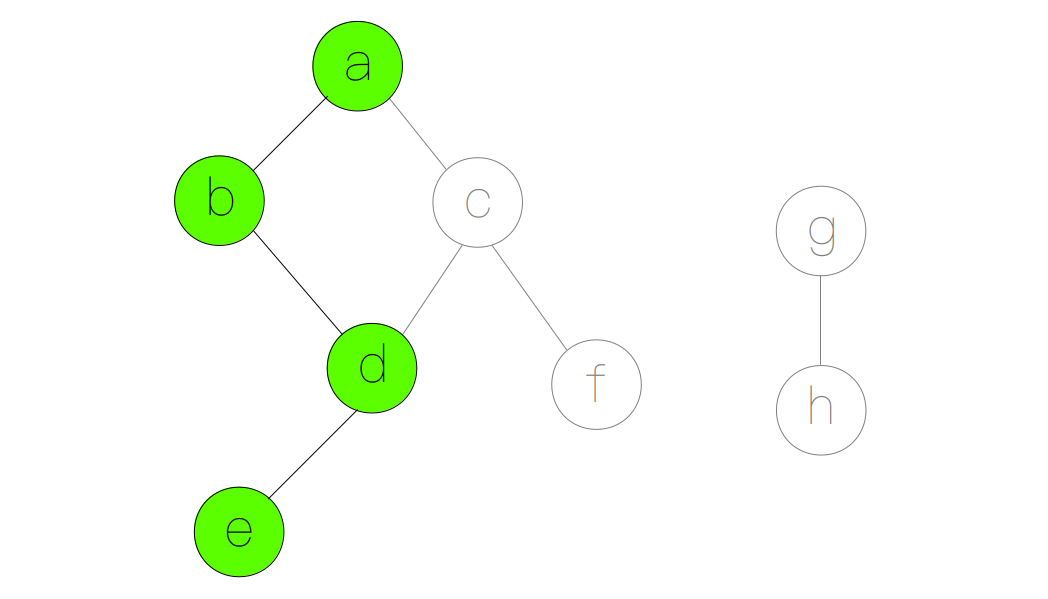
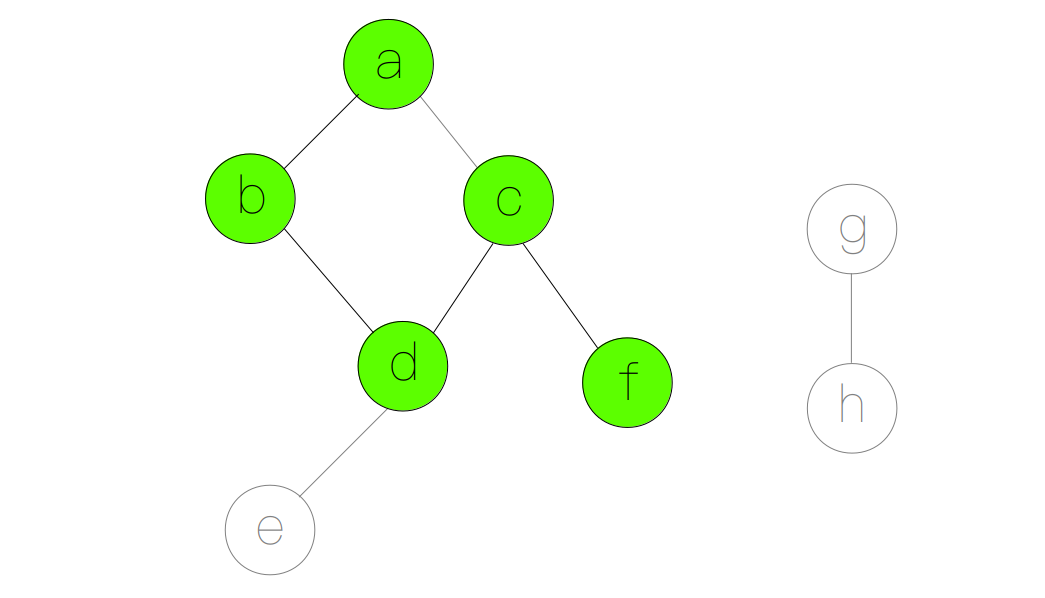
Site updated: 2020-01-14 12:57:12

diff --git a/study/algorithm/brute-force/graph-traversal/index.html b/study/algorithm/brute-force/graph-traversal/index.html
@@ -141,7 +141,7 @@
                         <div class="highlight"><pre><span></span><span class="k">class</span> <span class="nc">Vertex</span><span class="p">(</span><span class="nb">object</span><span class="p">):</span>
     <span class="k">def</span> <span class="fm">__init__</span><span class="p">(</span><span class="bp">self</span><span class="p">,</span> <span class="n">value</span><span class="p">,</span> <span class="n">visited</span><span class="p">):</span>
         <span class="bp">self</span><span class="o">.</span><span class="n">value</span> <span class="o">=</span> <span class="n">value</span>
-        <span class="bp">self</span><span class="o">.</span><span class="n">visited</span> <span class="o">=</span> <span class="bp">True</span>
+        <span class="bp">self</span><span class="o">.</span><span class="n">visited</span> <span class="o">=</span> <span class="bp">False</span>
         <span class="bp">self</span><span class="o">.</span><span class="n">neighbours</span> <span class="o">=</span> <span class="p">[]</span>  <span class="c1"># 记录所有与之相邻的节点</span>
 </pre></div>
                         <br>
@@ -149,14 +149,16 @@
                         <div class="highlight"><pre><span></span><span class="k">def</span> <span class="nf">dfs</span><span class="p">(</span><span class="n">v</span><span class="p">):</span>
     <span class="n">v</span><span class="o">.</span><span class="n">visited</span> <span class="o">=</span> <span class="bp">True</span>
     <span class="k">for</span> <span class="n">w</span> <span class="ow">in</span> <span class="n">v</span><span class="o">.</span><span class="n">neighbours</span><span class="p">:</span>
-        <span class="k">if</span> <span class="n">w</span><span class="o">.</span><span class="n">visited</span> <span class="o">==</span> <span class="bp">False</span><span class="p">:</span>
+        <span class="k">if</span> <span class="ow">not</span> <span class="n">w</span><span class="o">.</span><span class="n">visited</span><span class="p">:</span>
+            <span class="n">w</span><span class="o">.</span><span class="n">visited</span> <span class="o">=</span> <span class="bp">True</span>
             <span class="n">dfs</span><span class="p">(</span><span class="n">w</span><span class="p">)</span>
 </pre></div>
                         <br>
                         <p>我们看到，由于节点 g 和节点 h 没有与左边的图连通，所以我们需要再构建一个函数用来遍历所有节点是否被访问过，如果没有，我们就从该节点开始再进行遍历。</p>
-                        <div class="highlight"><pre><span></span><span class="k">def</span> <span class="nf">DFS</span><span class="p">(</span><span class="n">V</span><span class="p">):</span>
+                        <div class="highlight"><pre><span></span><span class="k">def</span> <span class="nf">DFS</span><span class="p">(</span><span class="n">G</span><span class="p">):</span>
+    <span class="n">V</span> <span class="o">=</span> <span class="n">G</span><span class="o">.</span><span class="n">keys</span><span class="p">()</span>
     <span class="k">for</span> <span class="n">v</span> <span class="ow">in</span> <span class="n">V</span><span class="p">:</span>
-        <span class="k">if</span> <span class="n">v</span><span class="o">.</span><span class="n">visited</span> <span class="o">==</span> <span class="bp">False</span><span class="p">:</span>
+        <span class="k">if</span> <span class="ow">not</span> <span class="n">v</span><span class="o">.</span><span class="n">visited</span><span class="p">:</span>
             <span class="n">dfs</span><span class="p">(</span><span class="n">v</span><span class="p">)</span>
 </pre></div>
                         <br>
@@ -169,17 +171,19 @@
     <span class="n">v</span><span class="o">.</span><span class="n">visted</span> <span class="o">=</span> <span class="bp">True</span>
     <span class="n">queue</span> <span class="o">=</span> <span class="p">[]</span>  <span class="c1"># 初始化一个空队列</span>
     <span class="n">queue</span><span class="o">.</span><span class="n">append</span><span class="p">(</span><span class="n">v</span><span class="p">)</span>  <span class="c1"># v 入队</span>
-    <span class="k">while</span> <span class="n">queue</span> <span class="o">!=</span> <span class="p">[]:</span>
+    <span class="k">while</span> <span class="n">queue</span><span class="p">:</span>
         <span class="k">for</span> <span class="n">w</span> <span class="ow">in</span> <span class="n">v</span><span class="o">.</span><span class="n">neighbours</span><span class="p">:</span>
-            <span class="k">if</span> <span class="n">w</span><span class="o">.</span><span class="n">visited</span> <span class="o">==</span> <span class="bp">False</span><span class="p">:</span>
+            <span class="k">if</span> <span class="ow">not</span> <span class="n">w</span><span class="o">.</span><span class="n">visited</span><span class="p">:</span>
+                <span class="n">w</span><span class="o">.</span><span class="n">visited</span> <span class="o">=</span> <span class="bp">True</span>
                 <span class="n">queue</span><span class="o">.</span><span class="n">append</span><span class="p">(</span><span class="n">w</span><span class="p">)</span>
         <span class="n">queue</span><span class="o">.</span><span class="n">pop</span><span class="p">(</span><span class="mi">0</span><span class="p">)</span>  <span class="c1"># v 出队</span>
 </pre></div>
                         <br>
                         <p>同样，对于那些没有相互连接的图，我们处理的方式是一样的：</p>
-                        <div class="highlight"><pre><span></span><span class="k">def</span> <span class="nf">BFS</span><span class="p">(</span><span class="n">V</span><span class="p">):</span>
+                        <div class="highlight"><pre><span></span><span class="k">def</span> <span class="nf">BFS</span><span class="p">(</span><span class="n">G</span><span class="p">):</span>
+    <span class="n">V</span> <span class="o">=</span> <span class="n">G</span><span class="o">.</span><span class="n">keys</span><span class="p">()</span>
     <span class="k">for</span> <span class="n">v</span> <span class="ow">in</span> <span class="n">V</span><span class="p">:</span>
-        <span class="k">if</span> <span class="n">v</span><span class="o">.</span><span class="n">visited</span> <span class="o">==</span> <span class="bp">False</span><span class="p">:</span>
+        <span class="k">if</span> <span class="ow">not</span> <span class="n">v</span><span class="o">.</span><span class="n">visited</span><span class="p">:</span>
             <span class="n">bfs</span><span class="p">(</span><span class="n">v</span><span class="p">)</span>
 </pre></div>
                         <br>
@@ -202,7 +206,7 @@
                         <p>邻接表由于只记录了每个节点和与之相连节点的信息，即每条边的信息。所以在遍历的过程中，我们需要 |V| + |E| 次，其中 |V| 表示判断节点是否已经被访问过的次数，|E| 表示一个图里边的条数（具有两个方向的边算作两次）。所以用邻接表表示的图，其两种遍历的复杂度均为 Θ(|V|+|E|)。</p>
 
                         <br>
-                        <p>→ <a href="https://github.com/infinityglow/Algorithm-and-Complexity/tree/master/Brute%20Force/String%20Matching" target="_blank" rel="noopener">本节全部代码</a> ←</p>
+                        <p>→ <a href="https://github.com/infinityglow/Algorithm-and-Complexity/tree/master/Brute%20Force/Graph%20Traversal" target="_blank" rel="noopener">本节全部代码</a> ←</p>
 
                         <br>
                         <br>
@@ -210,14 +214,14 @@
 
                         <nav id="gobottom" class="pagination">
 
-                            <a class="prev-post" title="4.1 冒泡排序与选择排序" href="/study/algorithm/brute-force/string-matching/" style="color: #C0C0C0">
+                            <a class="prev-post" title="4.2 字符串匹配（BF）" href="/study/algorithm/brute-force/string-matching/" style="color: #C0C0C0">
                                 ← 4.2 字符串匹配（BF）
                             </a>
 
                             <span class="prev-next-post">
 
                             </span>
-                            <a class="next-post" title=" 4.3 图的两种遍历" href="/study/algorithm/brute-force/clo-pair-con-hull" style="color: #C0C0C0">
+                            <a class="next-post" title=" 4.4 最近点对与凸包问题（BF）" href="/study/algorithm/brute-force/clo-pair-con-hull" style="color: #C0C0C0">
                                 4.4 最近点对与凸包问题（BF） →
                             </a>
                         </nav>
